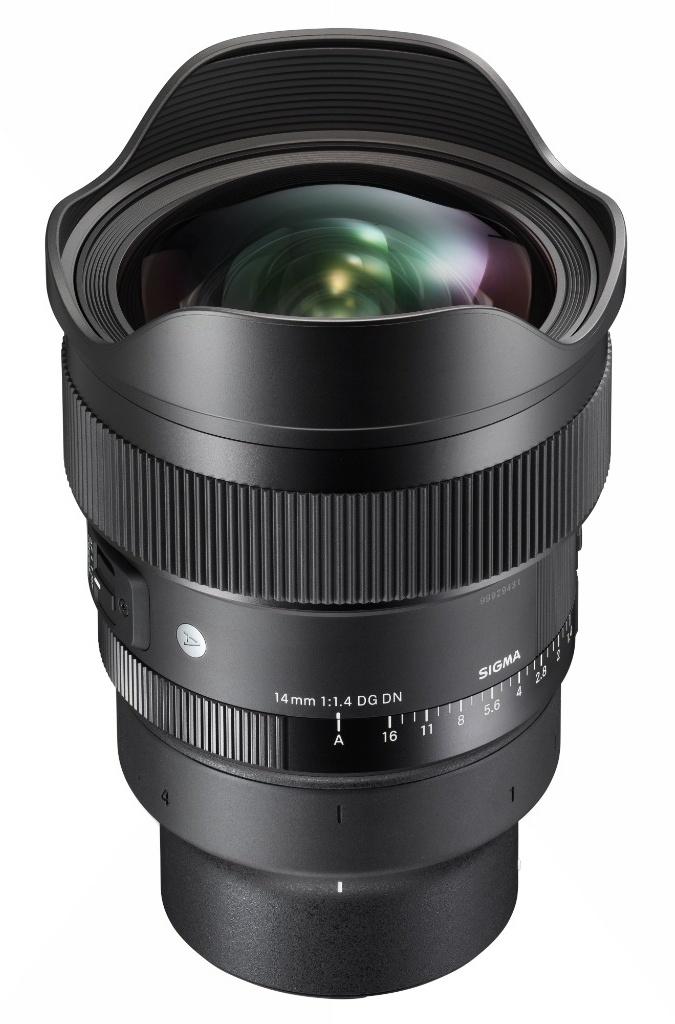
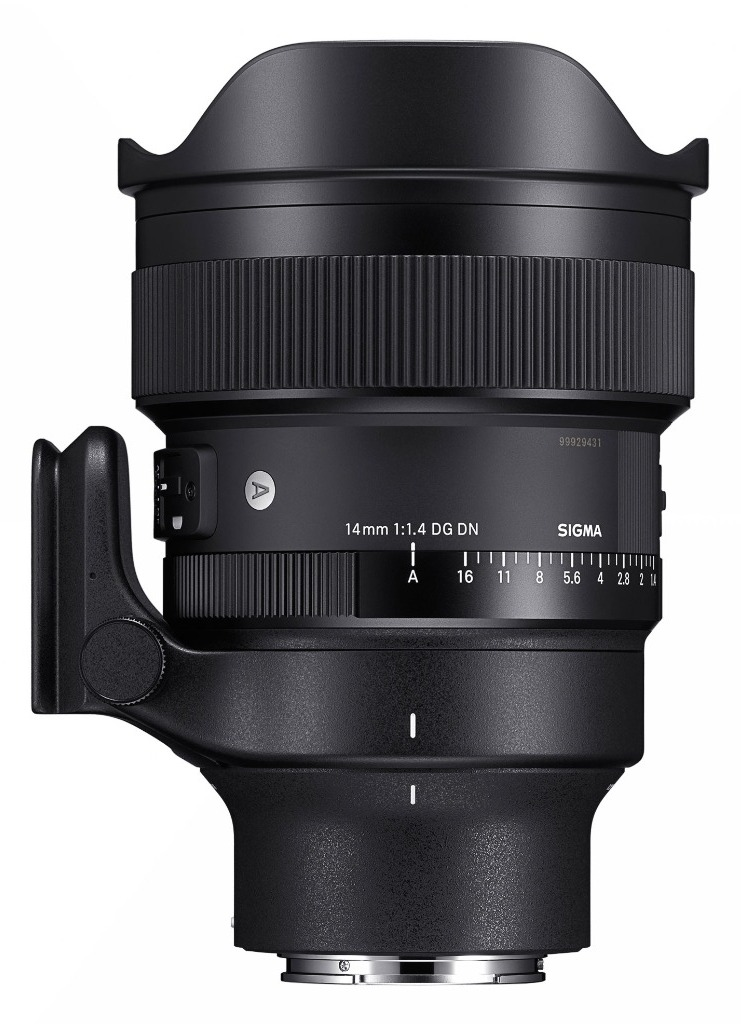
feat(gear): riorganizza la sezione Gear con badge 'Il kit ufficiale', griglia 4 entità per Obiettivi, lente Sigma 14mm in verticale scontornata con baionetta in basso e link diretto all'articolo

diff --git a/gear/gear.html b/gear/gear.html
@@ -3,9 +3,96 @@
 <head>
   <meta charset="UTF-8" />
   <meta name="viewport" content="width=device-width, initial-scale=1.0" />
-  <title>Gear & Attrezzatura Fotografica • Davide Luongo</title>
-  <meta name="description" content="Guida all'attrezzatura di Davide Luongo: Obiettivi SIGMA Art, Zaini e Treppiedi Vanguard, Astroinsegritore Move Shoot Move e Codici Sconto Esclusivi." />
+  <title>Il Kit Ufficial e Attrezzatura Fotografica • Davide Luongo</title>
+  <meta name="description" content="Il kit ufficiale dell'attrezzatura fotografica di Davide Luongo: Obiettivi SIGMA Art Ambassador, Zaini Vanguard e Astroinseguitori." />
   <link rel="stylesheet" href="../style.css" />
+  <link rel="preconnect" href="https://fonts.googleapis.com" />
+  <link rel="preconnect" href="https://fonts.gstatic.com" crossorigin />
+  <link href="https://fonts.googleapis.com/css2?family=Inter:wght@300;400;500;600;700;800&display=swap" rel="stylesheet" />
+  <style>
+    .gear-grid-4 {
+      display: grid;
+      grid-template-columns: repeat(4, 1fr);
+      gap: 1.5rem;
+      margin-bottom: 3.5rem;
+    }
+    .gear-card {
+      background: var(--bg-card);
+      border: 1px solid var(--border-glass);
+      border-radius: var(--radius-md);
+      overflow: hidden;
+      display: flex;
+      flex-direction: column;
+      transition: transform 0.3s ease, border-color 0.3s ease, box-shadow 0.3s ease;
+    }
+    .gear-card:hover {
+      transform: translateY(-5px);
+      border-color: var(--accent-cyan);
+      box-shadow: 0 10px 30px rgba(0, 240, 255, 0.15);
+    }
+    .gear-img-wrap {
+      background: radial-gradient(circle at center, rgba(0, 240, 255, 0.05) 0%, rgba(10, 15, 25, 0.8) 100%);
+      padding: 1.5rem;
+      text-align: center;
+      position: relative;
+      display: flex;
+      align-items: center;
+      justify-content: center;
+      min-height: 240px;
+    }
+    .gear-img-wrap img {
+      max-height: 200px;
+      width: auto;
+      max-width: 100%;
+      object-fit: contain;
+      transition: transform 0.3s ease;
+    }
+    .gear-card:hover .gear-img-wrap img {
+      transform: scale(1.05);
+    }
+    .gear-card-body {
+      padding: 1.25rem;
+      display: flex;
+      flex-direction: column;
+      flex: 1;
+    }
+    .gear-title {
+      font-size: 1.05rem;
+      font-weight: 700;
+      color: var(--text-primary);
+      margin-bottom: 0.65rem;
+      line-height: 1.35;
+    }
+    .gear-desc {
+      font-size: 0.825rem;
+      color: var(--text-secondary);
+      line-height: 1.55;
+      margin-bottom: 1.25rem;
+      flex: 1;
+    }
+    .gear-tag {
+      display: inline-block;
+      background: rgba(0, 240, 255, 0.1);
+      border: 1px solid var(--accent-cyan);
+      color: var(--accent-cyan);
+      padding: 0.2rem 0.6rem;
+      border-radius: var(--radius-full);
+      font-size: 0.75rem;
+      font-weight: 700;
+      margin-bottom: 0.5rem;
+      align-self: flex-start;
+    }
+    @media (max-width: 1024px) {
+      .gear-grid-4 {
+        grid-template-columns: repeat(2, 1fr);
+      }
+    }
+    @media (max-width: 600px) {
+      .gear-grid-4 {
+        grid-template-columns: 1fr;
+      }
+    }
+  </style>
 </head>
 <body>
 
@@ -19,8 +106,8 @@
 
       <ul class="nav-links">
         <li><a href="../index.html#home">Home</a></li>
-        <li><a href="../index.html#workshops">Workshop & Tour</a></li>
-        <li><a href="../index.html#corsi">Formazione 1-to-1</a></li>
+        <li><a href="../workshops_2026/friuli-2026.html">Workshop 2026</a></li>
+        <li><a href="../viaggi_2027/lapponia-2027.html">Viaggi 2027</a></li>
         <li><a href="gear.html" class="nav-current">Gear & Attrezzatura</a></li>
         <li><a href="../blog/blog.html">Blog & Pubblicazioni</a></li>
         <li><a href="../index.html#chi-sono">Chi Sono</a></li>
@@ -33,38 +120,187 @@
   </header>
 
   <!-- HERO GEAR -->
-  <section class="hero" style="min-height: 65vh; padding-top: 8rem;">
-    <img src="../assets/hero_gear_dark.png" alt="Gear Attrezzatura" class="hero-bg" />
-    <div class="hero-overlay"></div>
-
+  <section class="hero" style="min-height: 35vh; padding-top: 8rem; text-align: center;">
     <div class="container">
-      <div class="hero-content">
-        <div class="hero-tagline-badge">
-          <span>📷 TEST SUL CAMPO & AFFILAZIONI UFFICIALI</span>
+      <div class="hero-content" style="max-width: 840px; margin: 0 auto;">
+        <div class="hero-tagline-badge" style="display: inline-block; margin-bottom: 1rem;">
+          <span>📷 IL KIT UFFICIALE</span>
         </div>
 
-        <h1 class="hero-title">
-          La Mia Attrezzatura per <span class="gradient-text">Paesaggio & Astrofotografia</span>
+        <h1 class="hero-title" style="font-size: 2.8rem; line-height: 1.25; margin-bottom: 1rem;">
+          Attrezzatura per <span class="gradient-text">Paesaggio & Astrofotografia</span>
         </h1>
-
-        <p class="hero-description">
-          Gli strumenti che utilizzo sul campo in condizioni estreme, dai deserti di ghiaccio artici ai cieli notturni più bui d'Europa. Con recensioni tecniche e codici sconto riservati.
-        </p>
       </div>
     </div>
   </section>
 
   <!-- LISTA PRODOTTI GEAR -->
-  <section class="section" id="gear-catalog">
+  <section class="section" id="gear-catalog" style="padding-top: 1rem; padding-bottom: 5rem;">
     <div class="container">
-      <div class="section-title">
-        <h2>🔬 Il Kit Ufficiale & Recensioni</h2>
-        <p>Ottiche SIGMA Art, Sistemi di Supporto Vanguard, Astroinseguitori MSM e Filtri Kase.</p>
+
+      <!-- SEZIONE 1: OBIETTIVI (GRIGLIA 4 ENTITÀ PER RIGA) -->
+      <div class="publisher-section-heading" style="margin-bottom: 2rem;">
+        <div class="publisher-title-text">
+          <span>📷 Obiettivi</span>
+        </div>
+        <span style="font-size: 0.9rem; color: var(--accent-cyan); font-weight: 600;">Ottiche Ufficiali SIGMA Art</span>
       </div>
 
-      <div id="gear-grid-container" style="display: grid; grid-template-columns: repeat(auto-fit, minmax(320px, 1fr)); gap: 2rem;">
-        <!-- Dynamically rendered via main.js or static fallback -->
+      <div class="gear-grid-4">
+
+        <!-- CARTA 1: SIGMA 14MM F1.4 ART (CLICCABILE ALL'ARTICOLO NATIVO) -->
+        <article class="gear-card">
+          <a href="../blog/test-sigma-14mm-art.html" style="text-decoration: none; display: block;" title="Leggi la recensione completa del Sigma 14mm F1.4 DG DN Art">
+            <div class="gear-img-wrap">
+              <img src="../assets/gear_sigma_14mm_vertical.png" alt="Sigma 14mm F1.4 DG DN Art (Ambassador) baionetta verso il basso" />
+              <span style="position: absolute; top: 0.75rem; right: 0.75rem; background: rgba(0, 240, 255, 0.2); backdrop-filter: blur(6px); border: 1px solid var(--accent-cyan); color: #fff; padding: 0.2rem 0.55rem; border-radius: var(--radius-full); font-size: 0.7rem; font-weight: 700;">Clicca per l'Articolo ↗</span>
+            </div>
+          </a>
+          <div class="gear-card-body">
+            <span class="gear-tag">SIGMA ART SERIES</span>
+            <h3 class="gear-title">Sigma 14mm F1.4 DG DN Art (Ambassador)</h3>
+            <p class="gear-desc">
+              Dopo tre anni di utilizzo continuo, posso dire che il Sigma 14mm F1.4 Art è l'obiettivo che ha cambiato il mio modo di fotografare. Scelto per raccogliere la massima luce possibile in astrofotografia ambientata, offre una nitidezza straordinaria da centro a bordo già a f/1.4 con un coma ben controllato. La resa della sunstar a f/11 è estremamente pulita ed il collare Arca Swiss integrato è un vantaggio concreto nelle panoramiche notturne.
+            </p>
+            <a href="../blog/test-sigma-14mm-art.html" class="btn btn-primary" style="font-size: 0.8rem; padding: 0.45rem 1rem; text-align: center;">Leggi la Recensione →</a>
+          </div>
+        </article>
+
+        <!-- CARTA 2: SIGMA 24-70MM F2.8 ART -->
+        <article class="gear-card">
+          <div class="gear-img-wrap">
+            <img src="../assets/gear_sigma_2470.png" alt="Sigma 24-70mm F2.8 DG DN Art (Ambassador)" />
+          </div>
+          <div class="gear-card-body">
+            <span class="gear-tag">SIGMA ART SERIES</span>
+            <h3 class="gear-title">Sigma 24-70mm F2.8 DG DN Art (Ambassador)</h3>
+            <p class="gear-desc">
+              Lo zoom standard di riferimento per la fotografia di paesaggio diurna e reportage. Nitidezza impeccabile a tutte le focali, sfocato morbido e costruzione tropicalizzata a prova di intemperie.
+            </p>
+          </div>
+        </article>
+
+        <!-- CARTA 3: SIGMA 100-400MM CONTEMPORARY -->
+        <article class="gear-card">
+          <div class="gear-img-wrap">
+            <img src="../assets/gear_sigma_100400.png" alt="Sigma 100-400mm F5-6.3 DG DN OS Contemporary (Ambassador)" />
+          </div>
+          <div class="gear-card-body">
+            <span class="gear-tag">SIGMA CONTEMPORARY</span>
+            <h3 class="gear-title">Sigma 100-400mm F5-6.3 OS (Ambassador)</h3>
+            <p class="gear-desc">
+              Teleobiettivo ultra compatto e leggero, ideale nei trekking in montagna per isolare vette alpine, dettagli di ghiacciai e fauna selvatica mantenendo uno stabilizzatore ottico potente.
+            </p>
+          </div>
+        </article>
+
+        <!-- CARTA 4: SIGMA 14-24MM F2.8 ART -->
+        <article class="gear-card">
+          <div class="gear-img-wrap">
+            <img src="../assets/gear_sigma_14mm.png" alt="Sigma 14-24mm F2.8 DG DN Art (Ambassador)" />
+          </div>
+          <div class="gear-card-body">
+            <span class="gear-tag">SIGMA ART SERIES</span>
+            <h3 class="gear-title">Sigma 14-24mm F2.8 DG DN Art (Ambassador)</h3>
+            <p class="gear-desc">
+              Grandangolo zoom di estrema precisione. Perfetto per composizioni prospettiche ampie, architettura ed escursioni dove la flessibilità di focale grandangolare è fondamentale.
+            </p>
+          </div>
+        </article>
+
       </div>
+
+      <!-- SEZIONE 2: ZAINI & SUPPORTI VANGUARD -->
+      <div class="publisher-section-heading" style="margin-bottom: 2rem;">
+        <div class="publisher-title-text">
+          <span>🎒 Zaini & Supporti Vanguard</span>
+        </div>
+        <span style="font-size: 0.9rem; color: var(--accent-cyan); font-weight: 600;">Supporto Ufficiale Vanguard World</span>
+      </div>
+
+      <div class="gear-grid-4">
+
+        <article class="gear-card">
+          <div class="gear-img-wrap">
+            <img src="../assets/gear_vanguard_active53.png" alt="Vanguard VEO Active 53KG" />
+          </div>
+          <div class="gear-card-body">
+            <span class="gear-tag">VANGUARD OFFICIAL</span>
+            <h3 class="gear-title">Vanguard VEO Active 53KG</h3>
+            <p class="gear-desc">
+              Lo zaino da spedizione per contenere tutto il kit astrofotografico, corpo macchina, 3 ottiche pesanti, astroinseguitore e sacco a pelo per le notti all'aperto.
+            </p>
+          </div>
+        </article>
+
+        <article class="gear-card">
+          <div class="gear-img-wrap">
+            <img src="../assets/gear_vanguard_active46.png" alt="Vanguard VEO Active 46" />
+          </div>
+          <div class="gear-card-body">
+            <span class="gear-tag">VANGUARD OFFICIAL</span>
+            <h3 class="gear-title">Vanguard VEO Active 46</h3>
+            <p class="gear-desc">
+              Zaino compatto ed ergonomico da cabina, ideale per i viaggi in aereo e le uscite giornaliere dove la massima agilità è prioritaria.
+            </p>
+          </div>
+        </article>
+
+        <article class="gear-card">
+          <div class="gear-img-wrap">
+            <img src="../assets/gear_vanguard_lbp.png" alt="Vanguard LBP-50S" />
+          </div>
+          <div class="gear-card-body">
+            <span class="gear-tag">VANGUARD OFFICIAL</span>
+            <h3 class="gear-title">Vanguard LBP-50S Ball Head</h3>
+            <p class="gear-desc">
+              Testa a sfera compatta ma estremamente solida che non teme i carichi pesanti di ottiche f/1.4 e cieli inseguiti con astroinseguitore.
+            </p>
+          </div>
+        </article>
+
+        <article class="gear-card">
+          <div class="gear-img-wrap">
+            <img src="../assets/gear_vanguard_alta.png" alt="Vanguard Alta Pro Tripod" />
+          </div>
+          <div class="gear-card-body">
+            <span class="gear-tag">VANGUARD OFFICIAL</span>
+            <h3 class="gear-title">Vanguard Alta Pro Tripod</h3>
+            <p class="gear-desc">
+              Treppiede in carbonio ad alta rigidità con colonna centrale multi-angolo per inquadrature radenti al suolo ed estrema stabilità al vento.
+            </p>
+          </div>
+        </article>
+
+      </div>
+
+      <!-- SEZIONE 3: ASTROINSEGUITORI & ACCESSORI -->
+      <div class="publisher-section-heading" style="margin-bottom: 2rem;">
+        <div class="publisher-title-text">
+          <span>🌌 Astroinseguitori & Accessori</span>
+        </div>
+        <span style="font-size: 0.9rem; color: var(--accent-cyan); font-weight: 600;">Move Shoot Move Partnership</span>
+      </div>
+
+      <div style="max-width: 600px; margin: 0 auto;">
+        <article class="gear-card" style="text-align: center;">
+          <div class="gear-img-wrap">
+            <img src="../assets/gear_nomad_msm.png" alt="Move Shoot Move Nomad Tracker" style="max-height: 220px;" />
+          </div>
+          <div class="gear-card-body" style="align-items: center;">
+            <span class="gear-tag">MSM OFFICIAL PARTNER</span>
+            <h3 class="gear-title">Move Shoot Move Nomad Tracker</h3>
+            <p class="gear-desc" style="max-width: 480px;">
+              L'astroinseguitore portatile ultra leggero per compensare la rotazione terrestre ed inserire tempi di esposizione prolungati mantenendo le stelle perfettamente puntiformi.
+            </p>
+            <div style="background: rgba(0, 240, 255, 0.08); border: 1px border var(--accent-cyan); border-radius: var(--radius-md); padding: 0.75rem 1.5rem; margin-top: 0.5rem;">
+              <span style="font-size: 0.85rem; color: var(--text-secondary);">Codice Sconto Riservato:</span>
+              <strong style="color: var(--accent-cyan); font-size: 1.1rem; display: block; margin-top: 0.25rem;">MSM5DAVE</strong>
+            </div>
+          </div>
+        </article>
+      </div>
+
     </div>
   </section>
 
